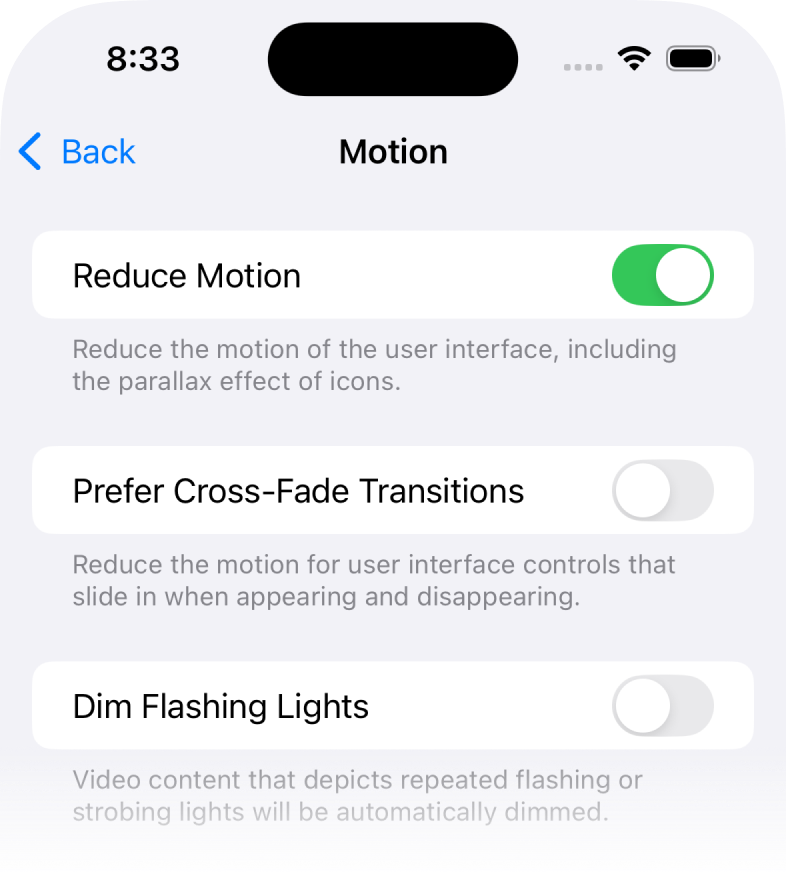
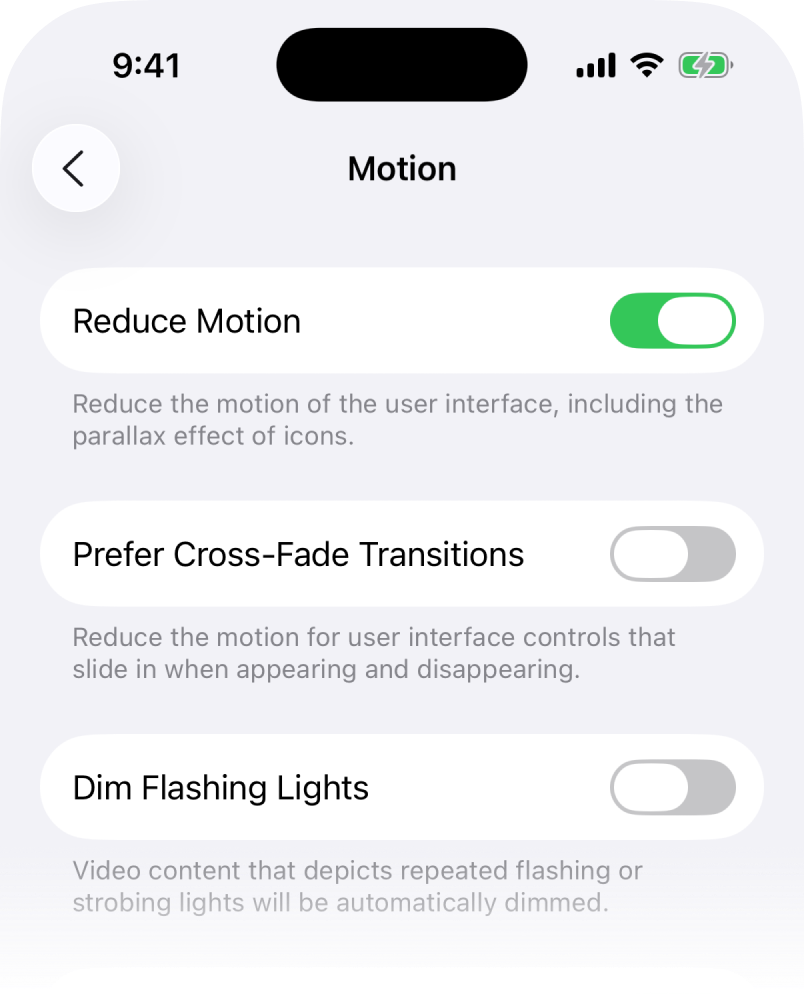
Update last two

diff --git a/content/topic/responsive/index.md b/content/topic/responsive/index.md
@@ -431,11 +431,11 @@ Mobile *touch-based* systems don’t have this behavior (and often react oddly t
 	>
 </figure>
 
-Hover states are a good feature for *progressive-enhancement*, as we did here—to add them in *after* you have a working mobile design. Since maybe a third to a half of your audience (depending on your project) won’t see them, don’t rely on them being seen!
+Hover states are a good feature for *progressive-enhancement*, as we did here—to add them in *after* you have a working mobile design. Maybe a third to a half of your audience (depending on your project) won’t see them—so don’t rely on them being seen!
 
 ### `prefers-color-scheme`
 
-You see this one more and more these days—switching up a site’s styles based on whether the user is in *light* or *dark mode*, popularized by the ol’ iPhone again:
+You see this one more and more these days—[`prefers-color-scheme`](https://developer.mozilla.org/en-US/docs/Web/CSS/@media/prefers-color-scheme) for switching up a site’s styles based on whether the user is in *light* or *dark mode*, popularized by the ol’ iPhone again:
 
 <figure
 	@caption="You’ll see this differently depending on whether your system is in light or dark mode."
@@ -444,13 +444,16 @@ You see this one more and more these days—switching up a site’s styles based
 	>
 </figure>
 
-Sometimes this feels appropriate—especially in products/applications, like maybe a messaging service. But sometimes the color scheme of a site is its *brand*, and probably shouldn’t change based on this query. It’s up to you! Continuing our ongoing discussion of who has the control.
+Sometimes this feels appropriate—especially in products/applications, like maybe a messaging service. But sometimes the color scheme of a site is its *brand* (like ours), and probably shouldn’t change based on this query. It’s up to you! Continuing our ongoing discussion of who has the control.
 
-### `prefers-contrast`&thinsp;, `prefers-reduced-motion` <!-- style="--typography--leading: 1.5" -->
+### `prefers-contrast`, `prefers-reduced-motion` <!-- .all style="line-height: 2rlh" -->
 
-These last two are primarily concerned with [accessiblity](https://developer.mozilla.org/en-US/docs/Web/Accessibility)—for folks who run their device/browser with animations turned off, or in a high-contrast mode to help with their vision:
+These last two are primarily concerned with [accessiblity](https://developer.mozilla.org/en-US/docs/Web/Accessibility)—[`prefers-contrast`](https://developer.mozilla.org/en-US/docs/Web/CSS/@media/prefers-contrast) for folks who run their device/browser in a high-contrast mode to help with their vision, or [`prefers-reduced-motion`](https://developer.mozilla.org/en-US/docs/Web/CSS/@media/prefers-reduced-motion) for those who have animations turned off for vestibular reasons.
 
-```css <!-- .verso style="align-self: center" -->
+Or these are just their preferences! None of your business.
+<!-- .note -->
+
+```css <!-- .verso .center -->
 :root {
 	--background: lightgray;
 	--foreground: slategray;
@@ -470,13 +473,14 @@ p {
 ```
 
 <figure
-	@caption="The corresponding settings in i&hairsp;OS."
+	@caption="The corresponding settings in i&NoBreak;OS."
 	@source="contrast.png"
+	class="recto"
 	style="grid-column: four-start / five-end"
 	>
 </figure>
 
-```css <!-- .verso style="align-self: center" -->
+```css <!-- .verso .center -->
 button {
 	animation: some-slick-animation;
 }
@@ -488,7 +492,7 @@ button {
 
 <figure
 	@source="motion.png"
-	class="right"
+	class="recto"
 	style="grid-column: four-start / five-end"
 	>
 </figure>